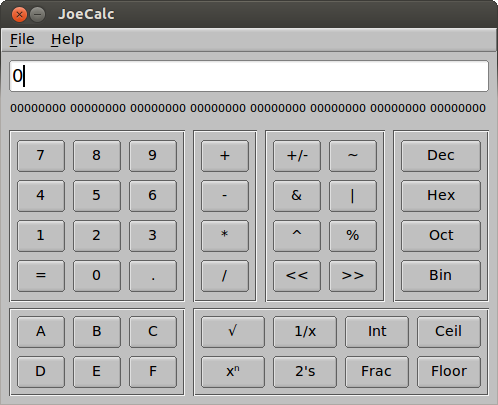
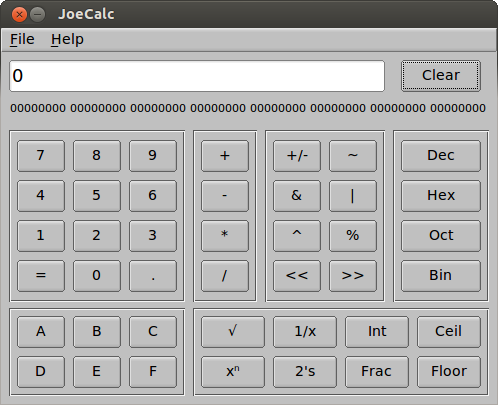
added clear button

Changed region(s): [[0.753, 0.1481, 0.994, 0.237], [0.0301, 0.1778, 0.0602, 0.2074]]

diff --git a/Calc.H b/Calc.H
@@ -23,6 +23,8 @@ Foundation, Inc., 51 Franklin St, Fifth Floor, Boston, MA  02110-1301 USA
 
 namespace Calc
 {
+  void key_clear();
+
   void key_0();
   void key_1();
   void key_2();
